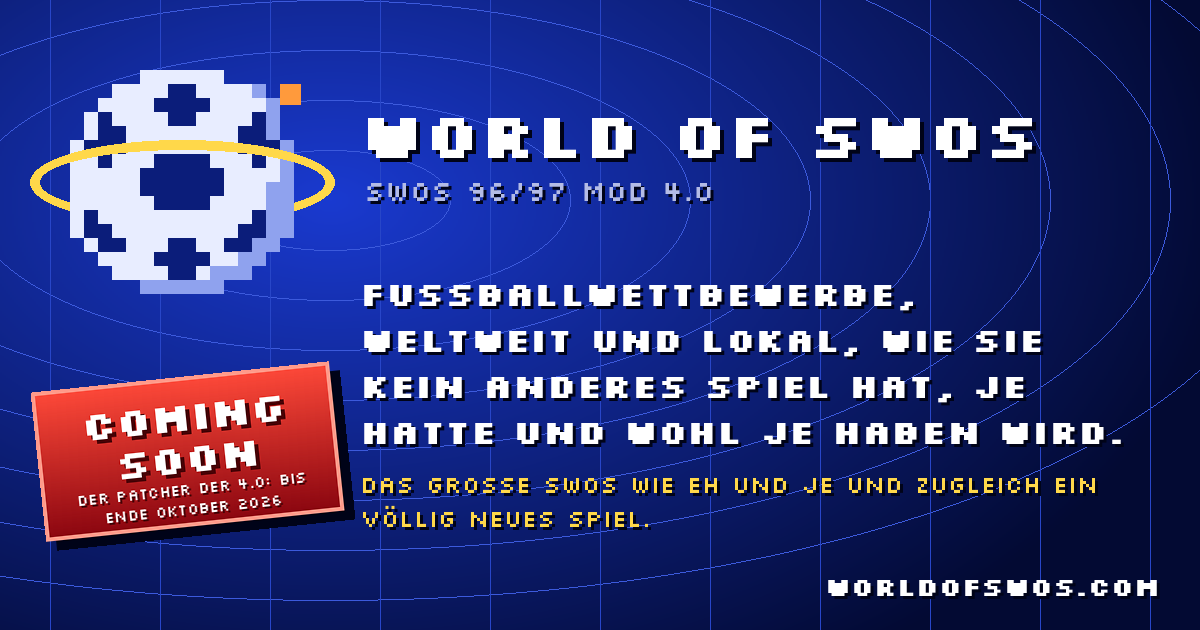
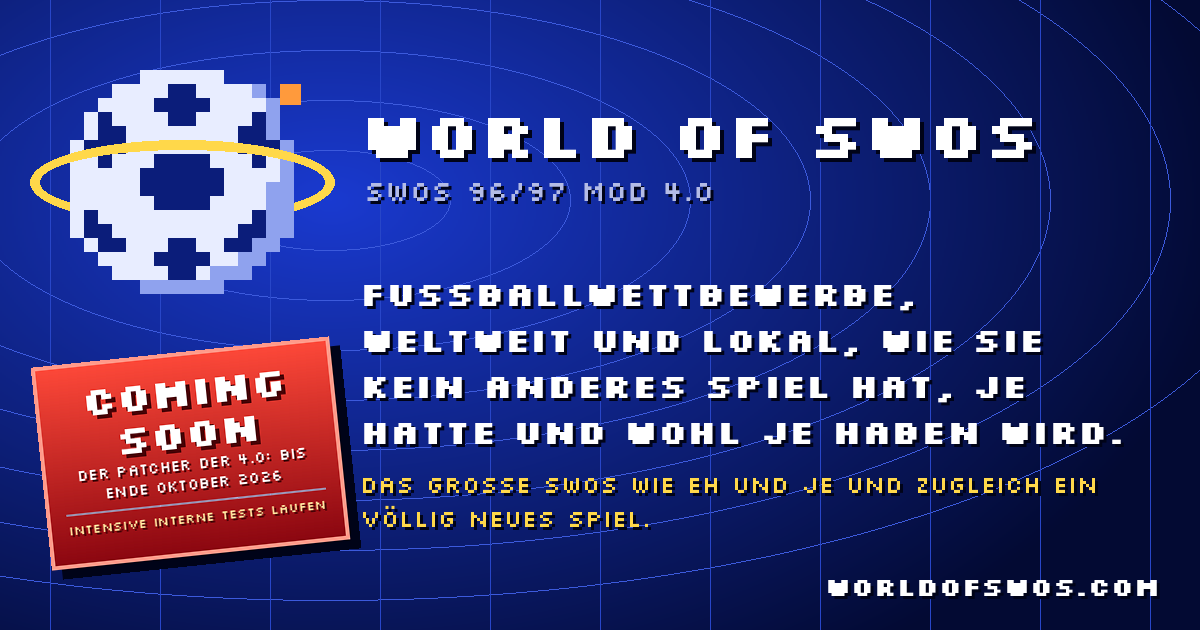
Social cards: 'extensive internal testing under way' in the sticker

Changed region(s): [[0.0, 0.5127, 0.3083, 0.9349]]

diff --git a/gen/ogimage.py b/gen/ogimage.py
@@ -36,7 +36,7 @@ def wrap(text, f, width, d):
     return lines + [cur] if cur else lines
 
 
-def card(path, tagline, concept, soon, soon_sub):
+def card(path, tagline, concept, soon, soon_sub, soon_test=''):
     im = Image.new('RGB', (W, H), (3, 10, 51))
     px = im.load()
     for y in range(H):                                   # radial blue, as the site's background
@@ -77,7 +77,7 @@ def card(path, tagline, concept, soon, soon_sub):
     shadow_text(d, (W - 40, H - 34), 'WORLDOFSWOS.COM', font(26), (255, 255, 255), off=3, anchor='rs')
     # the red diagonal sticker, under the ball (the left column)
     if soon:
-        sw, sh = 300, 150
+        sw, sh = 300, 204
         st = Image.new('RGBA', (sw + 10, sh + 10), (0, 0, 0, 0))
         sd = ImageDraw.Draw(st)
         sd.rectangle([10, 10, sw + 9, sh + 9], fill=(0, 3, 24, 255))
@@ -94,6 +94,12 @@ def card(path, tagline, concept, soon, soon_sub):
         for line in wrap(soon_sub.upper(), f3, sw - 24, sd)[:2]:
             shadow_text(sd, (sw // 2, yy), line, f3, (255, 255, 255), shadow=(74, 2, 6), off=2, anchor='mm')
             yy += 20
+        if soon_test:
+            sd.line([(20, yy - 2), (sw - 20, yy - 2)], fill=(255, 220, 210, 160), width=2)
+            f4 = font(13, False)
+            for line in wrap(soon_test.upper(), f4, sw - 20, sd)[:2]:
+                shadow_text(sd, (sw // 2, yy + 14), line, f4, (255, 230, 160), shadow=(74, 2, 6), off=2, anchor='mm')
+                yy += 20
         st = st.rotate(6, expand=True, resample=Image.BICUBIC)
-        im.paste(st, (30, 360), st)
+        im.paste(st, (30, 335), st)
     im.save(path, optimize=True)

diff --git a/build.py b/build.py
@@ -557,7 +557,7 @@ def build():
     for lang in LANGS:                              # the social preview cards
         t = T[lang]
         ogimage.card(os.path.join(OUT, 'static', f'og-{lang}.png'), t['tagline'], t['concept'],
-                     '' if RELEASED else t['soon'], t['soon_dl'])
+                     '' if RELEASED else t['soon'], t['soon_dl'], t['soon_test'])
     urls = []
     for lang in LANGS:
         pages = {'': home(d, lang), 'countries/': countries_index(d, lang), 'world/': world(d, lang),
